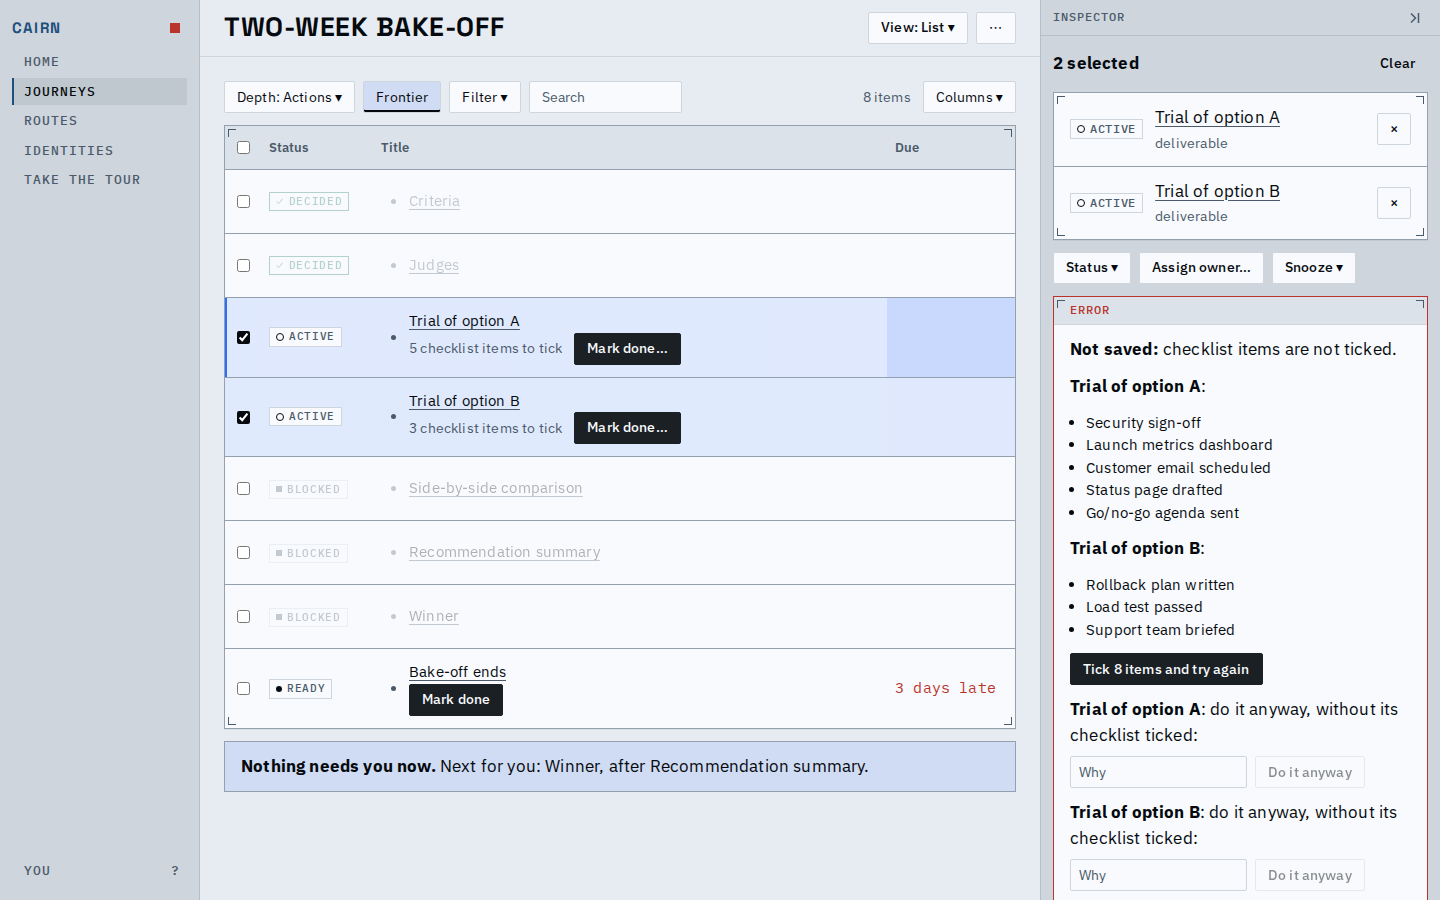
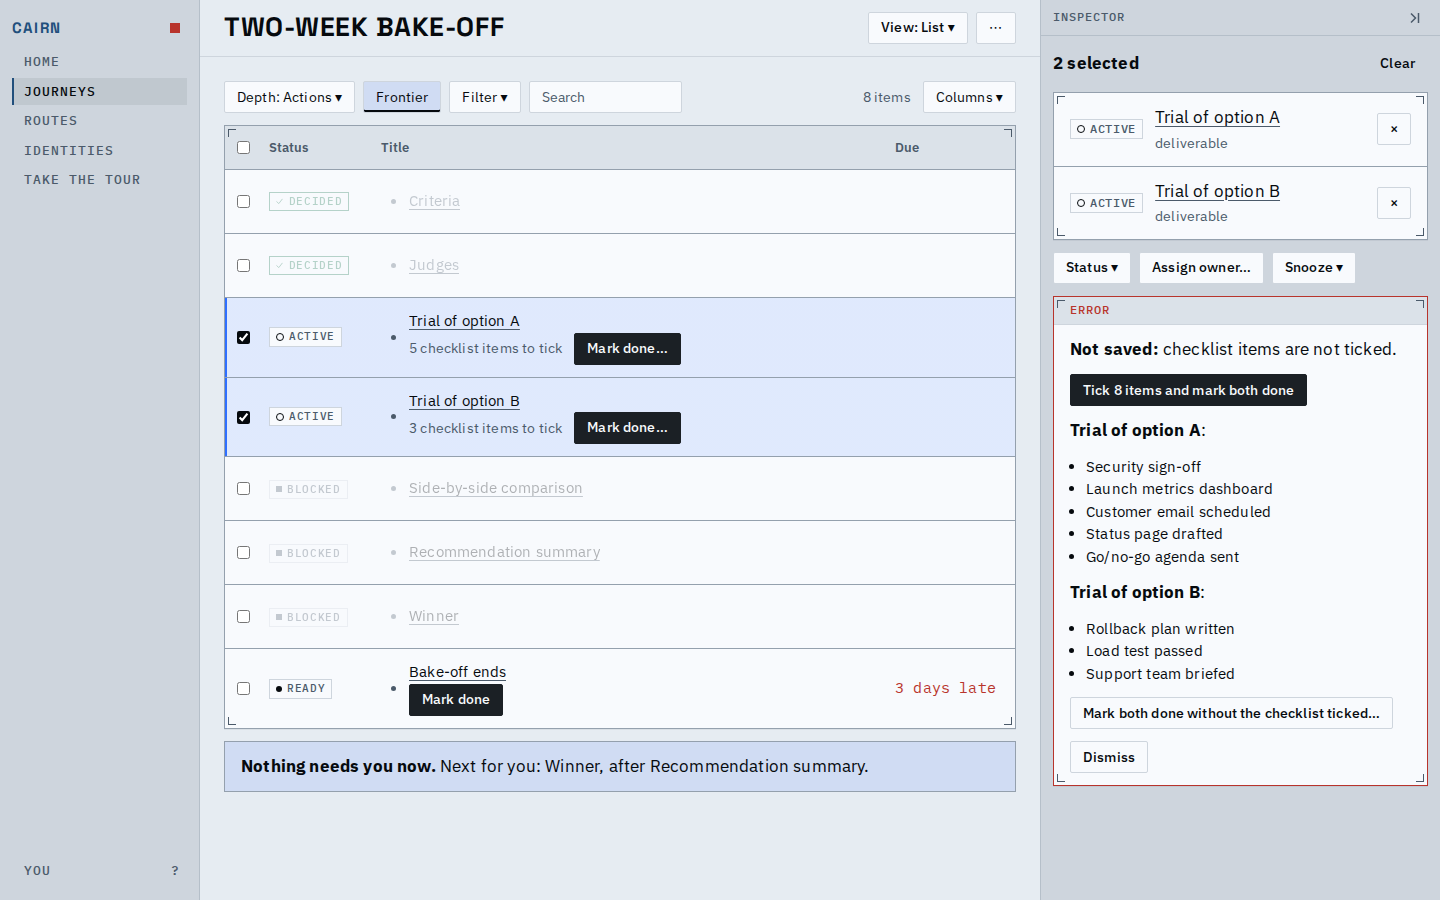
Offer the remedy first in refusals and name each button's action
A refusal now leads with its remedy and puts the bypass behind a
button that says what it does ("Mark X done without its checklist
ticked..."); the reason field opens only when that is chosen and
carries a visible label. The tick-the-rest button says what it
completes ("Tick 8 items and mark 2 done"), and the reason fields
for answering anyway and skipping a selection get visible labels in
place of placeholders. The done form's bypass label drops "anyway".

A list row that is checked but not the open one now tints every cell:
its unheld cells had no paper fallback and read as a darker block
beside the held ones. The held and unheld cells share one rule set.

Retook the refusal screenshot. Verified by the detail browser tests
and a walk of the refusal in the list.

A refusal's bypass covers every node the refusal names, with one
reason, so its button never promises one node while the retry still
fails on another.

Changed region(s): [[0.7188, 0.4044, 1.0, 1.0]]

diff --git a/web/app/src/detail/Rejected.tsx b/web/app/src/detail/Rejected.tsx
@@ -3,6 +3,7 @@
 // contradictory chain with its resolution moves (F5, the DateConflictResolver); a failed
 // guard that can be bypassed with a reason (D4); anything else as its violations.
 import type { Schema } from "@cairn/client";
+import { useState } from "react";
 
 import { useDraft } from "../data/drafts.ts";
 import type { OperationId } from "../data/edit-record.ts";
@@ -124,34 +125,59 @@ export function DateConflictResolver({ view, write, violations, onResolved, onRe
   );
 }
 
-function Bypass({ view, write, node, guards, onResolved, onResent }: Resolving & { node: string; guards: Guard[] }) {
-  const [draft, setReason] = useDraft<string>(`rejected-bypass:${write.journey}:${node}`);
+type Bypassed = { node: string; guards: Guard[] }[];
+
+/** The completions a retried patch carries, in words: "mark done", "mark both done", "mark all 3 done". */
+function completionWords(attempt: Attempt): string {
+  const completing = attempt.mutations.filter((mutation) => mutation.op === "transition" && mutation.transition === "complete").length;
+  return completing === 0 ? "go ahead" : completing === 1 ? "mark done" : completing === 2 ? "mark both done" : `mark all ${String(completing)} done`;
+}
+
+/** D4: the bypass of every node's failed guards at once, one reason for the lot, named by what it does; its reason field opens only when the person chooses it, after the remedy above has been offered. */
+function Bypass({ write, entries, onResolved, onResent }: Resolving & { entries: Bypassed }) {
+  const nodes = entries.map(({ node }) => node);
+  const [draft, setReason] = useDraft<string>(`rejected-bypass:${write.journey}:${nodes.join(",")}`);
+  const [chosen, choose] = useState(false);
   const reason = draft ?? "";
   const { failed } = write;
   if (failed === undefined) {
     return null;
   }
-  const override = guardBypass(node, guards, reason);
-  return (
-    <div className="row" data-testid="bypass">
-      <span>
-        <strong>{titleOf(view, node)}</strong>: do it anyway, without {guards.map(guardWords).join(" and ")}:
+  const overrides = entries.map(({ node, guards }) => guardBypass(node, guards, reason));
+  const verb = completionWords(failed.attempt).replace(/^./, (first) => first.toUpperCase());
+  const without = [...new Set(entries.flatMap(({ guards }) => guards))].map(guardWords).join(" and ");
+  if (!chosen && reason === "") {
+    return (
+      <span data-testid="bypass-offer">
+        <Button onClick={() => { choose(true); }}>
+          {`${verb} without ${without}\u2026`}
+        </Button>
       </span>
-      <Field aria-label="Why do it anyway" placeholder="Why" value={reason} onChange={(event) => { setReason(event.target.value); }} />
-      <Button
-        disabled={write.disabled || !bypassReady(reason)}
-        onClick={() => {
-          retry(write, failed, [override, ...failed.attempt.mutations], failed.attempt, {
-            onResolved: () => {
-              setReason(undefined);
-              onResolved?.();
-            },
-            onResent,
-          });
-        }}
-      >
-        Do it anyway
-      </Button>
+    );
+  }
+  return (
+    <div className="stack" data-testid="bypass">
+      <label className="stack">
+        <span className="label">{`Why ${verb.toLowerCase()} without ${without}`}</span>
+        <Field value={reason} onChange={(event) => { setReason(event.target.value); }} />
+      </label>
+      <span className="row">
+        <Button
+          disabled={write.disabled || !bypassReady(reason)}
+          onClick={() => {
+            retry(write, failed, [...overrides, ...failed.attempt.mutations], failed.attempt, {
+              onResolved: () => {
+                setReason(undefined);
+                onResolved?.();
+              },
+              onResent,
+            });
+          }}
+        >
+          {`${verb} with this reason`}
+        </Button>
+        <Button onClick={() => { setReason(undefined); choose(false); }}>Cancel</Button>
+      </span>
     </div>
   );
 }
@@ -172,9 +198,19 @@ function TickList({ view, node, items }: { view: Ready; node: string; items: rea
 /** G5: the checklist items a refusal names, and the one button that ticks them and sends the refused patch again. */
 function TickTheRest({ view, write, failed, ticks, only, onResolved, onResent }: Resolving & { failed: Failed; ticks: { node: string; items: string[] }[]; only: boolean }) {
   const total = ticks.reduce((sum, { items }) => sum + items.length, 0);
-  const completing = failed.attempt.mutations.filter((mutation) => mutation.op === "transition" && mutation.transition === "complete").length;
   return (
     <>
+      {only ? (
+        <span>
+          <Button
+            primary
+            disabled={write.disabled}
+            onClick={() => { retry(write, failed, withTicks(failed.attempt, ticks), failed.attempt, { onResolved, onResent }); }}
+          >
+            {`Tick ${plural(total, "item")} and ${completionWords(failed.attempt)}`}
+          </Button>
+        </span>
+      ) : null}
       {ticks.map(({ node, items }) => (
         <div className="stack" key={node} data-testid="tick-the-rest" data-node={node}>
           <span>
@@ -183,17 +219,6 @@ function TickTheRest({ view, write, failed, ticks, only, onResolved, onResent }:
           <TickList view={view} node={node} items={items} />
         </div>
       ))}
-      {only ? (
-        <span>
-          <Button
-            primary
-            disabled={write.disabled}
-            onClick={() => { retry(write, failed, withTicks(failed.attempt, ticks), failed.attempt, { onResolved, onResent }); }}
-          >
-            {`Tick ${plural(total, "item")} and ${completing === 1 ? "mark done" : "try again"}`}
-          </Button>
-        </span>
-      ) : null}
     </>
   );
 }
@@ -201,6 +226,7 @@ function TickTheRest({ view, write, failed, ticks, only, onResolved, onResent }:
 function Invalid({ view, write, failed, rejection, violations, onResolved, onResent }: Resolving & { failed: Failed; rejection: Rejection; violations: Violation[] }) {
   const chains = violations.filter((violation) => violation.code === "contradictory_chain");
   const ticks = untickedIn(violations);
+  const bypasses = bypassable(violations);
   return (
     <RejectionView
       rejection={rejection}
@@ -212,9 +238,7 @@ function Invalid({ view, write, failed, rejection, violations, onResolved, onRes
         <>
           <DateConflictResolver view={view} write={write} violations={chains} onResolved={onResolved} onResent={onResent} />
           <TickTheRest view={view} write={write} failed={failed} ticks={ticks.byNode} only={ticks.only} onResolved={onResolved} onResent={onResent} />
-          {bypassable(violations).map(({ node, guards }) => (
-            <Bypass key={node} view={view} write={write} node={node} guards={guards} onResolved={onResolved} onResent={onResent} />
-          ))}
+          {bypasses.length === 0 ? null : <Bypass write={write} view={view} entries={bypasses} onResolved={onResolved} onResent={onResent} />}
         </>
       }
     />

diff --git a/web/app/src/acting/acting.css b/web/app/src/acting/acting.css
@@ -494,6 +494,11 @@ table.data.list-table .badge {
   color: var(--color-muted);
 }
 
+/* A checked row wears the selection line like the open one (the open row's comes from the generic table rule). */
+.list-table tr[data-selected="true"] > td:first-child {
+  box-shadow: inset 2px 0 0 var(--color-accent);
+}
+
 .list-table td.list-pinned {
   background: var(--row-paper, var(--color-surface));
 }
@@ -511,8 +516,8 @@ table.data.list-table .badge {
   background-image: linear-gradient(var(--row-paper), var(--row-paper));
 }
 
-.list-table tr[data-state][aria-selected="true"] td:not(.list-pinned) {
-  background-image: linear-gradient(var(--color-tint), var(--color-tint)), linear-gradient(var(--row-paper), var(--row-paper));
+.list-table tr[data-state]:not([data-container="true"]):is([data-selected="true"], [aria-selected="true"]) td:not(.list-pinned) {
+  background-image: linear-gradient(var(--color-tint), var(--color-tint)), linear-gradient(var(--row-paper, var(--color-surface)), var(--row-paper, var(--color-surface)));
 }
 
 .list-table tbody tr[data-state]:hover td:not(.list-pinned) {
@@ -520,7 +525,7 @@ table.data.list-table .badge {
 }
 
 /* A selected row under the pointer keeps its blue tint (selection and focus are the accent's), across every cell. */
-.list-table tbody tr[data-state][aria-selected="true"]:hover td:not(.list-pinned),
+.list-table tbody tr[data-state]:not([data-container="true"]):is([data-selected="true"], [aria-selected="true"]):hover td:not(.list-pinned),
 .list-table tbody tr[data-selected="true"]:hover td.list-pinned,
 .list-table tbody tr[aria-selected="true"]:hover td.list-pinned {
   background: linear-gradient(var(--color-tint), var(--color-tint)), linear-gradient(var(--color-hover), var(--color-hover)), var(--row-paper, var(--color-surface));
@@ -671,10 +676,6 @@ table.data.list-table .badge {
   }
 }
 
-.list-table tr[aria-selected="true"] td {
-  background: var(--color-tint);
-}
-
 .list-title {
   display: flex;
   align-items: center;
@@ -734,14 +735,14 @@ table.data.list-table .badge {
   background: linear-gradient(var(--color-hover), var(--color-hover)), var(--row-paper, var(--color-band));
 }
 
-.list-table tr[data-container="true"][aria-selected="true"] td,
-.list-table tr[data-container="true"][aria-selected="true"] td.list-pinned {
+.list-table tr[data-container="true"]:is([data-selected="true"], [aria-selected="true"]) td,
+.list-table tr[data-container="true"]:is([data-selected="true"], [aria-selected="true"]) td.list-pinned {
   background: linear-gradient(var(--color-tint), var(--color-tint)), var(--row-paper, var(--color-band));
 }
 
-.list-table tbody tr[data-container="true"][aria-selected="true"]:hover td,
-.list-table tbody tr[data-container="true"][aria-selected="true"]:hover td:not(.list-pinned),
-.list-table tbody tr[data-container="true"][aria-selected="true"]:hover td.list-pinned {
+.list-table tbody tr[data-container="true"]:is([data-selected="true"], [aria-selected="true"]):hover td,
+.list-table tbody tr[data-container="true"]:is([data-selected="true"], [aria-selected="true"]):hover td:not(.list-pinned),
+.list-table tbody tr[data-container="true"]:is([data-selected="true"], [aria-selected="true"]):hover td.list-pinned {
   background: linear-gradient(var(--color-tint), var(--color-tint)), linear-gradient(var(--color-hover), var(--color-hover)), var(--row-paper, var(--color-band));
 }
 

diff --git a/web/app/e2e/detail.spec.ts b/web/app/e2e/detail.spec.ts
@@ -41,12 +41,12 @@ async function rejectionSurvivesAndResolves(page: Page) {
   // The rejection and a reason typed meanwhile are kept per tab, so a reload loses neither.
   await menuItem(panel, "done-anyway");
   const reason = fresh("Reviewed out of band");
-  await panel.getByTestId("bypass").getByLabel("Why mark it done anyway").fill(reason);
+  await panel.getByTestId("bypass").getByLabel(/Why mark it done without/).fill(reason);
   await page.reload();
   panel = page.getByTestId("node-detail");
   conflict = panel.getByTestId("date-conflict");
   await expect(conflict).toBeVisible();
-  await expect(panel.getByTestId("bypass").getByLabel("Why mark it done anyway")).toHaveValue(reason);
+  await expect(panel.getByTestId("bypass").getByLabel(/Why mark it done without/)).toHaveValue(reason);
   // Away from the control it is still counted, and Go to it comes back to it.
   await goWithin(page, "/routes?type=routes");
   await expect(syncChip(page)).toHaveAttribute("aria-label", /^NOT SAVED · 1\./);
@@ -229,6 +229,7 @@ test("a checklist item typed and not added survives a reload, and a replacement 
   await openEditing(page, "browser", "j_bakeoff");
   await openFromCanvas(page, "n_trial_a");
   let completion = await openForm(page, "completion");
+  await completion.getByLabel("Requires all items ticked before done").check();
   const add = completion.getByLabel("New item", { exact: true });
   await add.fill("Alpha");
   await add.press("Enter");
@@ -255,4 +256,21 @@ test("a checklist item typed and not added survives a reload, and a replacement 
   await openJourney(page, "browser", "j_bakeoff");
   await openFromCanvas(page, "n_trial_a");
   await expect(nodeCard(page, "n_trial_a").getByTestId("card-checklist")).toHaveAttribute("data-ticked", "0");
+  // A refused completion offers the remedy first; the reason field opens only when the bypass is chosen.
+  await openActing(page, "browser", "j_bakeoff", "list?frontier=1");
+  await frontierItem(page, "n_trial_a").locator("input[type=checkbox]").click();
+  await frontierItem(page, "n_trial_b").locator("input[type=checkbox]").click();
+  await page.getByTestId("selection-status").click();
+  await page.getByRole("menuitem", { name: "Mark done" }).click();
+  const refused = page.getByTestId("refused");
+  await expect(refused.getByRole("button", { name: /^Tick 1 item and mark both done$/ })).toBeVisible();
+  await expect(refused.getByTestId("bypass")).toHaveCount(0);
+  await refused.getByRole("button", { name: /^Mark both done without/ }).click();
+  const reason = refused.getByLabel(/^Why mark both done without/);
+  await expect(refused.getByRole("button", { name: "Mark both done with this reason" })).toBeDisabled();
+  await reason.fill("Checked in person");
+  await refused.getByRole("button", { name: "Mark both done with this reason" }).click();
+  await expect(refused).toHaveCount(0);
+  await goTo(page, "graph");
+  await expect(nodeCard(page, "n_trial_a").getByTestId("card-state")).toHaveAttribute("data-state", "done");
 });

diff --git a/web/app/src/detail/AnswerEditor.tsx b/web/app/src/detail/AnswerEditor.tsx
@@ -516,7 +516,10 @@ export function AnswerEditor({ view, detail, menu, anyway, focus }: { view: Read
       {state.preview?.warning === undefined ? null : <span className="muted" data-testid="preview-warning">{state.preview.warning}</span>}
       {bypassing && anyway !== undefined ? (
         <span className="row" data-testid="answer-anyway">
-          <Field aria-label="Why answer anyway" placeholder="Why (required)" value={bypass} onChange={(event) => { anyway.change(event.target.value); }} />
+          <label className="stack">
+            <span className="label">Why answer anyway (required)</span>
+            <Field value={bypass} onChange={(event) => { anyway.change(event.target.value); }} />
+          </label>
           <Button onClick={anyway.cancel}>Cancel</Button>
         </span>
       ) : null}

diff --git a/web/app/src/acting/SelectionActions.tsx b/web/app/src/acting/SelectionActions.tsx
@@ -66,7 +66,12 @@ function FormInput({ view, open, within, onChange }: { view: Ready; open: Filled
   const group = useId();
   const { form, value } = open;
   if (form === "skip") {
-    return <Field aria-label="Why skip them" placeholder="Why" value={value} onChange={(event) => { onChange({ ...open, value: event.target.value }); }} />;
+    return (
+      <label className="stack">
+        <span className="label">Why skip them</span>
+        <Field value={value} onChange={(event) => { onChange({ ...open, value: event.target.value }); }} />
+      </label>
+    );
   }
   if (form === "assign") {
     return (

diff --git a/web/app/src/detail/Actions.tsx b/web/app/src/detail/Actions.tsx
@@ -345,7 +345,7 @@ function reasonWords(kind: ReasonKind, node: GraphNode, without: string, inside:
     case "include":
       return { label: "Why include it", confirm: "Include anyway", testId: "include-form" };
     case "bypass":
-      return { label: "Why mark it done anyway", confirm: `Mark done without ${without}`, testId: "bypass" };
+      return { label: `Why mark it done without ${without}`, confirm: `Mark done without ${without}`, testId: "bypass" };
   }
 }
 

diff --git a/web/app/src/detail/words.ts b/web/app/src/detail/words.ts
@@ -19,7 +19,7 @@ export function guardWords(guard: Schema<"Guard">): string {
     case "has_note":
       return "a note";
     case "all_ticked":
-      return "its checklist ticked";
+      return "the checklist ticked";
     case "broken_down":
       return "a breakdown";
     case "date_arrived":

diff --git a/briefs/proof/2026-10-22-checklists-web/README.md b/briefs/proof/2026-10-22-checklists-web/README.md
@@ -17,8 +17,9 @@ the ticks and the completion go in one patch.
 
 ![A refused completion naming each unticked item](refused.png)
 
-When a node is completed some other way, the refusal names each unticked item, offers to tick
-them and try again, and offers "Do it anyway" with a reason.
+When two nodes are completed together, the refusal names each unticked item and offers one
+button that ticks them and marks both done. Finishing without them is a second, quieter button
+for all of them; its reason field, with a visible label, opens only when chosen.
 
 ![The card showing a progress line](after.png)
 
